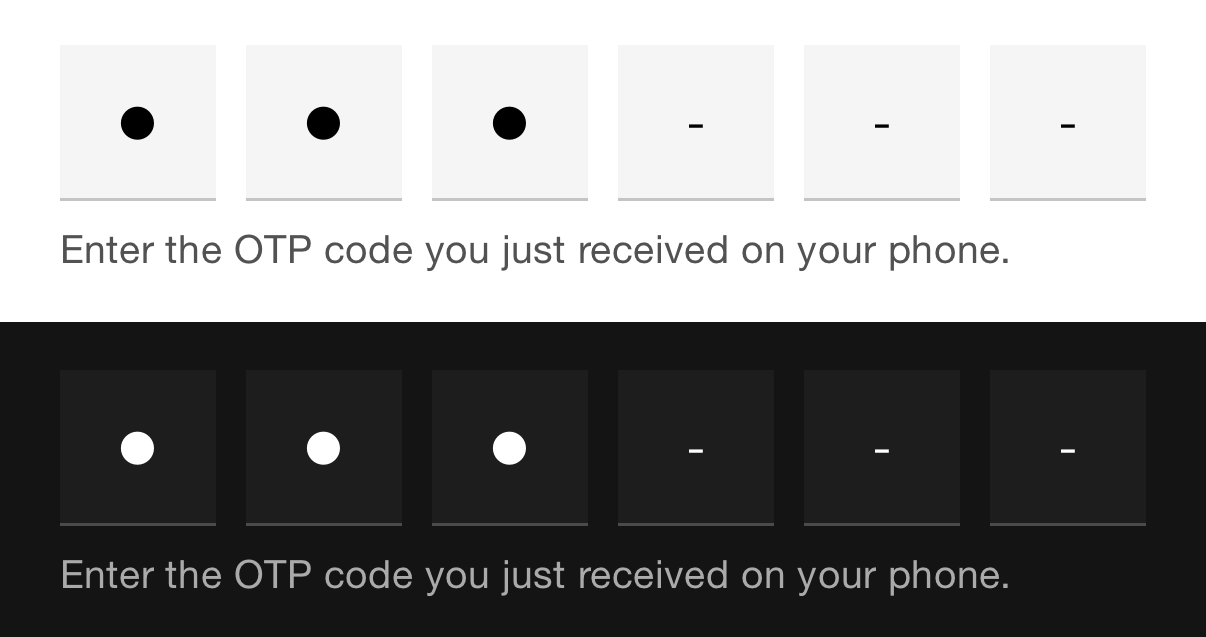
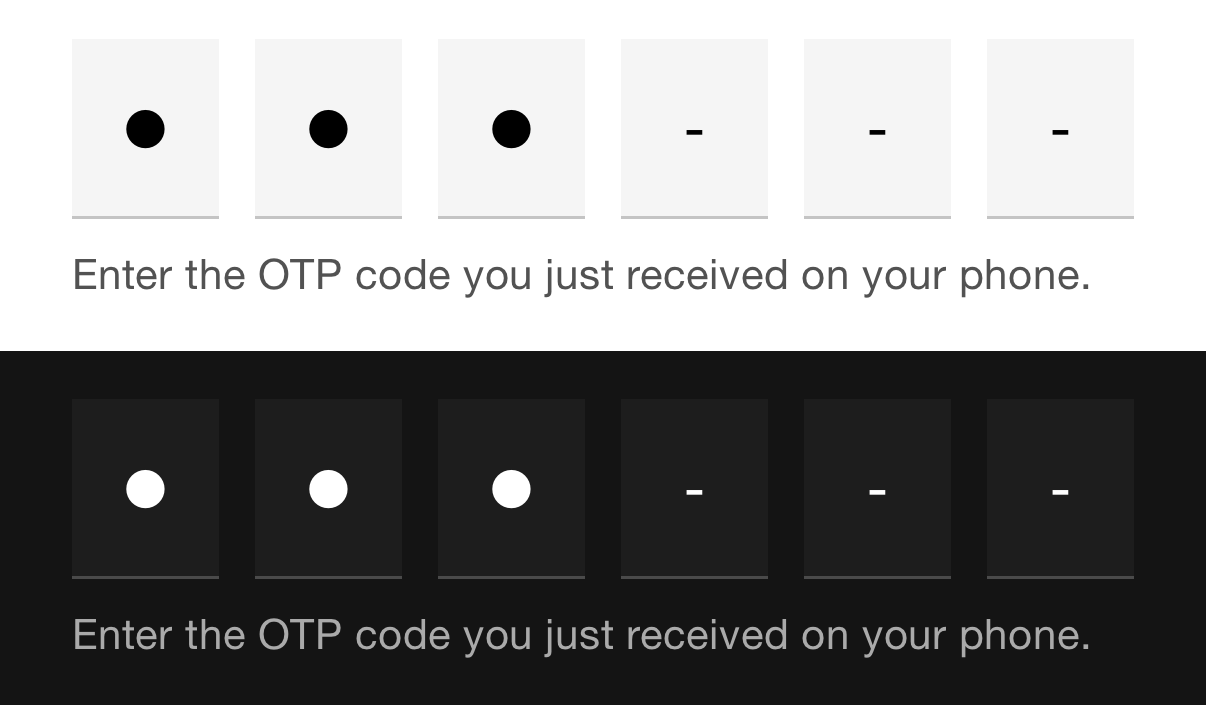
refactor: update `PIN code input` component to v1.3 (#1444) (#1516)
Change typography of input text of component

Closes #1444

diff --git a/OUDS/Core/Components/Sources/Controls/PinCodeInput/Internal/PinCodeInputContainer.swift b/OUDS/Core/Components/Sources/Controls/PinCodeInput/Internal/PinCodeInputContainer.swift
@@ -235,7 +235,7 @@ struct PinCodeInputContainer: View {
         // are retrieved in the suitable thread at the best moment
         let uiFont = TypographyModifier.makeUIFont(
             family: nil,
-            from: theme.fonts.labelDefaultLarge,
+            from: theme.fonts.labelModerateLarge,
             isCompact: horizontalSizeClass == .compact || verticalSizeClass == .compact)
         return BackspaceDetectingTextField(
             text: $digits[index],

diff --git a/OUDS/Core/Components/Sources/Controls/PinCodeInput/OUDSPinCodeInput.swift b/OUDS/Core/Components/Sources/Controls/PinCodeInput/OUDSPinCodeInput.swift
@@ -137,7 +137,7 @@ import SwiftUI
 ///
 /// ![A PIN code input component in light and dark modes with Wireframe theme](component_pinCodeInput_Wireframe)
 ///
-/// - Version: 1.2.0 (Figma component design version)
+/// - Version: 1.3.0 (Figma component design version)
 /// - Since: 1.4.0
 @available(iOS 15, visionOS 1, *)
 public struct OUDSPinCodeInput: View {

diff --git a/CHANGELOG.md b/CHANGELOG.md
@@ -8,6 +8,7 @@ and this project adheres to [Semantic Versioning](https://semver.org/spec/v2.0.0
 
 ### Changed
 
+- `PIN code input` component with new typography (Orange-OpenSource/ouds-ios#1444)
 - `bullet list` component can use rich text if bold or not (Orange-OpenSource/ouds-ios#1440)
 - `tag` component with label medium moderate typography for text for small size (Orange-OpenSource/ouds-ios#1449)
 - `filter chip` and `suggestion chip` components with label medium moderate typography for text (Orange-OpenSource/ouds-ios#1441)
